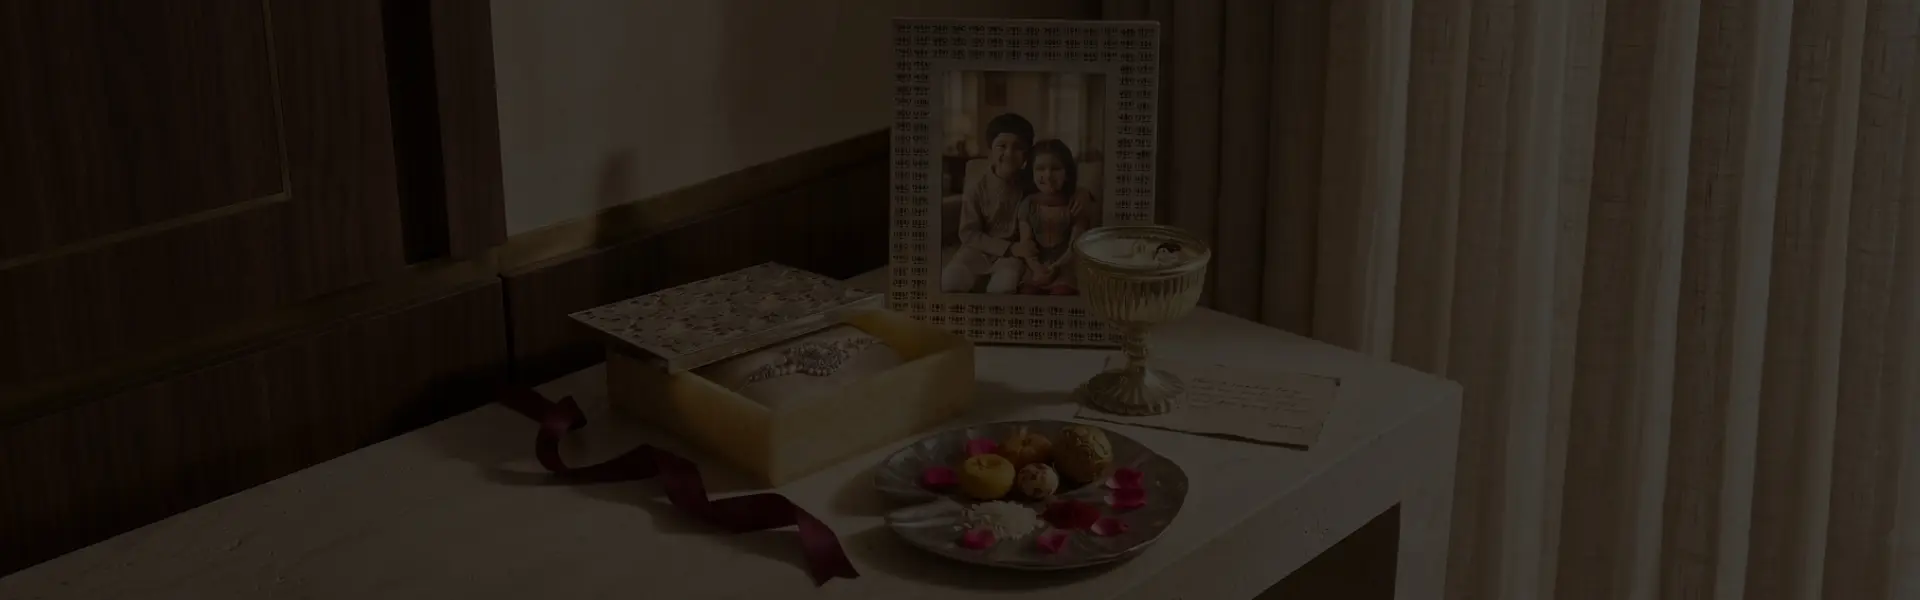
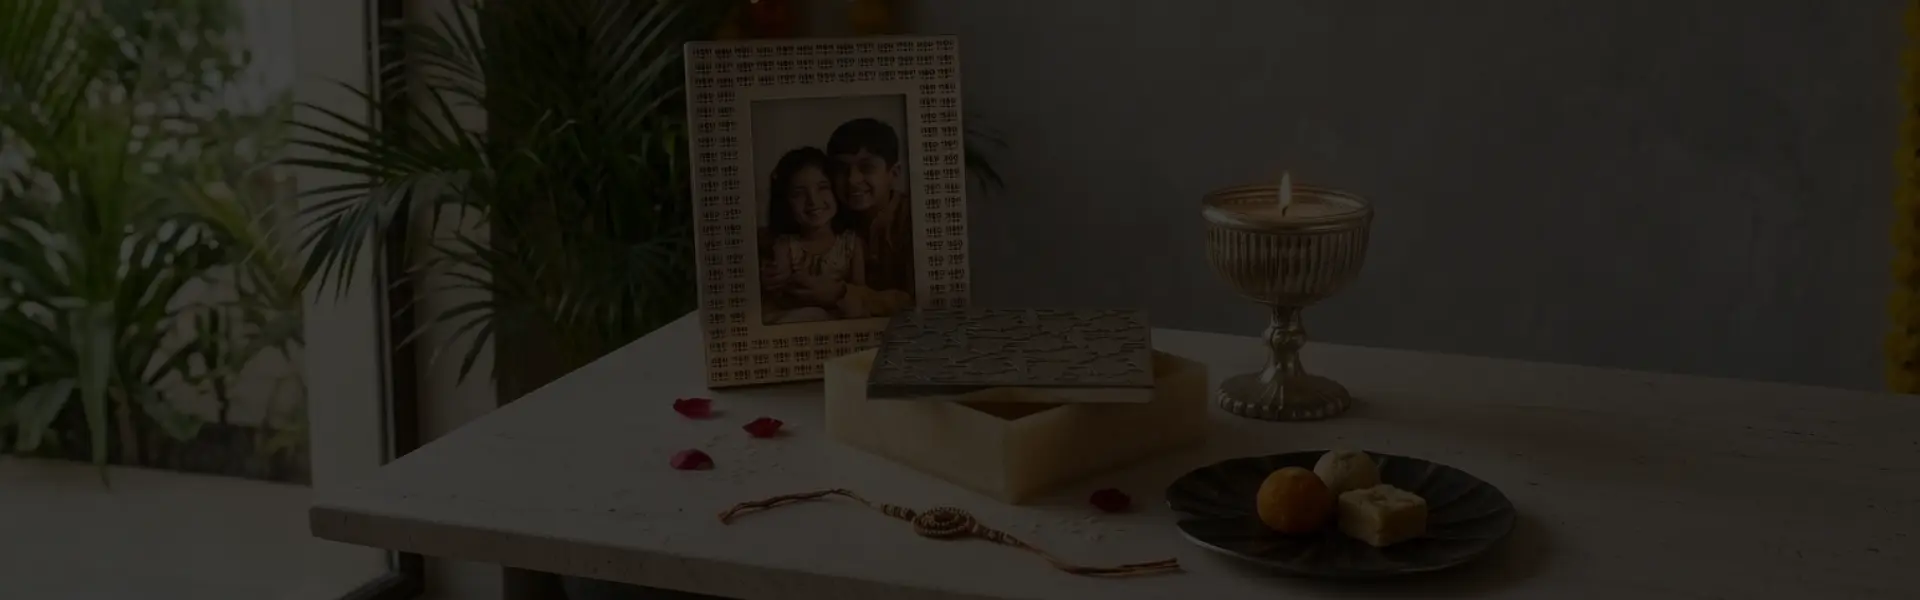
changes in rakshabandhan

diff --git a/resources/views/front/raksha_bandhan_collection.blade.php b/resources/views/front/raksha_bandhan_collection.blade.php
@@ -76,7 +76,7 @@
                 <div class="desire_box">
                     <div class="ceremonial_box mb-3">
                         <img class="w-100" src="{{asset('public/images/front/Raksha-Bandhan/The-Memory-Box.webp')}}" alt="The Memory Box">
-                        <div class="inquire_bespoke">
+                        <!-- <div class="inquire_bespoke">
                             <a href="javascript:void(0);" class="inquire_link" data-bs-toggle="modal" data-bs-target="#requestCorporateProduct">
                                 INQUIRE FOR <br> BESPOKE <br>
                                 <span>
@@ -85,15 +85,23 @@
                                     </svg>
                                 </span>
                             </a>
-                        </div>
+                        </div> -->
                     </div>
                     <div class="desire_box_bot_child">
                         <div>
                             <h3 class="sub_head mb-1">The Memory Box</h3>
+                              <p class="fw-semibold text-muted mb-3"><strong></strong>AED 550</p>
                             <p class="text-muted mb-3">A box for the memories</p>
-                            <p class="mb-0 text-muted">An onyx base beneath an engraved lotus-pond lid, made to hold the letters and small keepsakes siblings collect over years.</p>
+                          
+                            </div>
+                            <div>
+                                <a href="javascript:void(0);" class="com_btn" data-bs-toggle="modal" data-bs-target="#rakshaBandhanInquiry" data-product-name="The Memory Box">Inquire Now</a>
+                            </div>
+                            </div>
+                            <div>
+                            <!-- <p class="mb-0 text-muted">An onyx base beneath an engraved lotus-pond lid, made to hold the letters and small keepsakes siblings collect over years.</p> -->
                         </div>
-                    </div>
+                    
                 </div>
             </div>
 
@@ -101,7 +109,7 @@
                 <div class="desire_box">
                     <div class="ceremonial_box mb-3">
                         <img class="w-100" src="{{asset('public/images/front/Raksha-Bandhan/The-Luxury-Candle.webp')}}" alt="The Luxury Candle">
-                        <div class="inquire_bespoke">
+                        <!-- <div class="inquire_bespoke">
                             <a href="javascript:void(0);" class="inquire_link" data-bs-toggle="modal" data-bs-target="#requestCorporateProduct">
                                 INQUIRE FOR <br> BESPOKE <br>
                                 <span>
@@ -110,15 +118,23 @@
                                     </svg>
                                 </span>
                             </a>
-                        </div>
+                        </div> -->
                     </div>
                     <div class="desire_box_bot_child">
                         <div>
                             <h3 class="sub_head mb-1">The Luxury Candle</h3>
+                             <p class="fw-semibold text-muted mb-3"><strong></strong>AED 120</p>
                             <p class="text-muted mb-3">A candle for the warmth</p>
-                            <p class="mb-0 text-muted">Becomes its own small ritual, one that brings the warmth of Raksha Bandhan back into the room long after the rakhi has come off.</p>
-                        </div>
-                    </div>
+                            
+                            </div>
+                            <div>
+                                <a href="javascript:void(0);" class="com_btn" data-bs-toggle="modal" data-bs-target="#rakshaBandhanInquiry" data-product-name="The Luxury Candle">Inquire Now</a>
+                            </div>
+                            
+                             </div>
+                            <!-- <p class="mb-0 text-muted">Becomes its own small ritual, one that brings the warmth of Raksha Bandhan back into the room long after the rakhi has come off.</p> -->
+                       
+                    
                 </div>
             </div>
 
@@ -126,7 +142,7 @@
                 <div class="desire_box">
                     <div class="ceremonial_box mb-3">
                         <img class="w-100" src="{{asset('public/images/front/Raksha-Bandhan/The-Lotus-Frame.webp')}}" alt="The Lotus Frame">
-                        <div class="inquire_bespoke">
+                        <!-- <div class="inquire_bespoke">
                             <a href="javascript:void(0);" class="inquire_link" data-bs-toggle="modal" data-bs-target="#requestCorporateProduct">
                                 INQUIRE FOR <br> BESPOKE <br>
                                 <span>
@@ -135,15 +151,22 @@
                                     </svg>
                                 </span>
                             </a>
-                        </div>
+                        </div> -->
                     </div>
                     <div class="desire_box_bot_child">
                         <div>
                             <h3 class="sub_head mb-1">The Lotus Frame</h3>
+                            <p class="fw-semibold text-muted mb-3"><strong></strong>AED 450
+</p>
                             <p class="text-muted mb-3">A frame for the memories</p>
-                            <p class="mb-0 text-muted">A beautifully crafted frame to cherish your most treasured moments together.</p>
-                        </div>
-                    </div>
+                             
+                             </div>
+                            <div>
+                                <a href="javascript:void(0);" class="com_btn" data-bs-toggle="modal" data-bs-target="#rakshaBandhanInquiry" data-product-name="The Lotus Frame">Inquire Now</a>
+                            </div>
+                           </div>
+                            <!-- <p class="mb-0 text-muted">A beautifully crafted frame to cherish your most treasured moments together.</p> -->
+                    
                 </div>
             </div>
 
@@ -151,7 +174,7 @@
                 <div class="desire_box">
                     <div class="ceremonial_box mb-3">
                         <img class="w-100" src="{{asset('public/images/front/Raksha-Bandhan/The-Lotus-Plate.webp')}}" alt="The Lotus Plate">
-                        <div class="inquire_bespoke">
+                        <!-- <div class="inquire_bespoke">
                             <a href="javascript:void(0);" class="inquire_link" data-bs-toggle="modal" data-bs-target="#requestCorporateProduct">
                                 INQUIRE FOR <br> BESPOKE <br>
                                 <span>
@@ -160,15 +183,22 @@
                                     </svg>
                                 </span>
                             </a>
-                        </div>
+                        </div> -->
                     </div>
                     <div class="desire_box_bot_child">
                         <div>
                             <h3 class="sub_head mb-1">The Lotus Plate</h3>
+                                <p class="fw-semibold text-muted mb-3"><strong></strong>AED 295</p>
                             <p class="text-muted mb-3">A plate for the ceremony</p>
-                            <p class="mb-0 text-muted">A delicate and thoughtful addition to honor the traditions of Raksha Bandhan.</p>
+                         
+                            </div>
+                            <div>
+                                <a href="javascript:void(0);" class="com_btn" data-bs-toggle="modal" data-bs-target="#rakshaBandhanInquiry" data-product-name="The Lotus Plate">Inquire Now</a>
+                            </div>
                         </div>
-                    </div>
+                            <!-- <p class="mb-0 text-muted">A delicate and thoughtful addition to honor the traditions of Raksha Bandhan.</p> -->
+                        
+                    
                 </div>
             </div>
         </div>
@@ -278,6 +308,74 @@
     </div>
 </section>
 
+
+<!-- Product Inquiry Modal -->
+<div class="modal fade audio_modal" id="rakshaBandhanInquiry" data-bs-backdrop="static" data-bs-keyboard="false" tabindex="-1" aria-labelledby="rakshaBandhanInquiryLabel" aria-hidden="true">
+    <div class="modal-dialog modal-dialog-centered modal-lg">
+        <div class="modal-content">
+            <div class="modal-body">
+                <div class="audio-card d-grid">
+                    <div class="modal-header px-0 border-0">
+                        <h4 class="title_40 mb-0" id="rakshaBandhanInquiryLabel">Product Inquiry</h4>
+                        <button type="button" class="btn-close" data-bs-dismiss="modal" aria-label="Close"></button>
+                    </div>
+
+                    <form method="POST" action="{{ route('front.store.festival.inquiry') }}" id="rakshaBandhanInquiryForm" class="ct_form">
+                        @csrf
+                        <div class="row">
+                            <div class="col-lg-6">
+                                <div class="ct_input">
+                                    <label class="sub_head">Name</label>
+                                    <input type="text" name="name" placeholder="Enter your Name" value="{{ old('name') }}" required
+                                        oninput="this.value = this.value.replace(/[^a-zA-Z\s]/g, '').replace(/\s+/g, ' ').trimStart();">
+                                </div>
+                            </div>
+                            <div class="col-lg-6">
+                                <div class="ct_input">
+                                    <label class="sub_head">Inquire For Product</label>
+                                    <input type="text" id="rakshaBandhanProductName" name="product_name" value="" readonly required>
+                                </div>
+                            </div>
+                            <div class="col-lg-6">
+                                <div class="ct_input">
+                                    <label class="sub_head">Email</label>
+                                    <input type="email" name="email" placeholder="Enter your Email Address" value="{{ old('email') }}" required>
+                                </div>
+                            </div>
+                            <div class="col-lg-6">
+                                <div class="ct_input">
+                                    <label class="sub_head">Contact Number</label>
+                                    <input type="text" name="contact_no" placeholder="Enter your Contact Number" value="{{ old('contact_no') }}"
+                                        oninput="this.value = this.value.replace(/[^0-9]/g, '').slice(0, 15);">
+                                </div>
+                            </div>
+                            <div class="col-lg-12">
+                                <div class="ct_input">
+                                    <label class="sub_head">Message</label>
+                                    <textarea name="message" placeholder="Enter your Message" rows="2">{{ old('message') }}</textarea>
+                                </div>
+                            </div>
+                            <div class="col-lg-12 text-center">
+                                <button type="button" class="com_btn bg-transparent" data-bs-dismiss="modal">Close</button>
+                                <button type="submit" class="com_btn bg-transparent ms-2">Submit</button>
+                            </div>
+                        </div>
+                    </form>
+                </div>
+            </div>
+        </div>
+    </div>
+</div>
+
+@push('script')
+<script>
+$(document).ready(function () {
+    $('#rakshaBandhanInquiry').on('show.bs.modal', function (event) {
+        $('#rakshaBandhanProductName').val($(event.relatedTarget).data('product-name'));
+    });
+});
+</script>
+@endpush
 
 <!-- Modals -->
 @include('front.corporate_request_modal')

diff --git a/app/Http/Controllers/FrontController.php b/app/Http/Controllers/FrontController.php
@@ -11,6 +11,7 @@ use App\Models\CorporateKit;
 use App\Models\CorporateKitRequest;
 use App\Models\CorporateProposalRequest;
 use App\Models\FaqType;
+use App\Models\FestivalInquiry;
 use App\Models\GiftBlessing;
 use App\Models\GiftShop;
 use App\Models\Journal;
@@ -1936,6 +1937,41 @@ class FrontController extends Controller
         $category = Category::select('id', 'category_name', 'description')->where('id', $categoryId)->first();
 
         return view('front.ceremonials', compact('products', 'category'));
+    }
+
+    public function storeFestivalInquiry(Request $request)
+    {
+        $validator = Validator::make($request->all(), [
+            'name'         => 'required|string|max:255',
+            'product_name' => 'required|string|max:255',
+            'email'        => 'required|email|max:255',
+            'contact_no'   => 'nullable|string|max:15',
+            'message'      => 'nullable|string',
+        ]);
+
+        if ($validator->fails()) {
+            return redirect()->back()->withErrors($validator)->withInput();
+        }
+
+        FestivalInquiry::create([
+            'name'         => $request->name,
+            'product_name' => $request->product_name,
+            'email'        => $request->email,
+            'contact_no'   => $request->contact_no,
+            'message'      => $request->message,
+        ]);
+
+        $message = "*Rakshabandhan Product Inquiry*\n\n" .
+            "*Name:* {$request->name}\n" .
+            "*Email:* {$request->email}\n" .
+            "*Contact No:* " . ($request->contact_no ?: 'N/A') . "\n" .
+            "*Product:* {$request->product_name}\n" .
+            "*Message:* " . ($request->message ?: 'N/A') . "\n\n" .
+            "- HNOWW";
+
+        $url = 'https://wa.me/' . $this->adminWhatsappNo . '?text=' . urlencode($message);
+
+        return back()->with('whatsapp_url', $url);
     }
 
     public function storeCeremonialInquiry(Request $request)

diff --git a/routes/web.php b/routes/web.php
@@ -107,7 +107,8 @@ Route::name('front.')->group(function () {
 
     Route::get('/luxury-corporate-gifts/{cat_slug?}', [FrontController::class, 'getCorporateVault'])->name('corporate.vault');
     Route::get('/corporate-diwali-collection-2026', [FrontController::class, 'getCorporateDiwaliCollection'])->name('corporate.diwali.collection');
-    Route::get('/raksha-bandhan-collection-2026', [FrontController::class, 'getRakshaBandhanCollection'])->name('raksha.bandhan.collection');
+    Route::get('/festives/rakshabandhan', [FrontController::class, 'getRakshaBandhanCollection'])->name('raksha.bandhan.collection');
+    Route::post('/store-festival-inquiry', [FrontController::class, 'storeFestivalInquiry'])->name('store.festival.inquiry');
     Route::get('/get-products-by-category/{category_id}', [FrontController::class, 'getProductsByCategory'])->name('get.products.by.category');
     Route::get('/wedding-vault', [FrontController::class, 'getWeddingVault'])->name('wedding.vault');
     Route::post('/wedding-vault/send-email', [FrontController::class, 'sendUnlockWeddingEmail'])->name('wedding-vault.send-email');

diff --git a/database/migrations/2026_08_19_000001_create_festival_inquiries_table.php b/database/migrations/2026_08_19_000001_create_festival_inquiries_table.php
@@ -1,0 +1,26 @@
+<?php
+
+use Illuminate\Database\Migrations\Migration;
+use Illuminate\Database\Schema\Blueprint;
+use Illuminate\Support\Facades\Schema;
+
+return new class extends Migration
+{
+    public function up(): void
+    {
+        Schema::create('festival_inquiries', function (Blueprint $table) {
+            $table->id();
+            $table->string('name');
+            $table->string('product_name');
+            $table->string('email');
+            $table->string('contact_no')->nullable();
+            $table->text('message')->nullable();
+            $table->timestamps();
+        });
+    }
+
+    public function down(): void
+    {
+        Schema::dropIfExists('festival_inquiries');
+    }
+};

diff --git a/app/Models/FestivalInquiry.php b/app/Models/FestivalInquiry.php
@@ -1,0 +1,13 @@
+<?php
+
+namespace App\Models;
+
+use Illuminate\Database\Eloquent\Factories\HasFactory;
+use Illuminate\Database\Eloquent\Model;
+
+class FestivalInquiry extends Model
+{
+    use HasFactory;
+
+    protected $guarded = [];
+}
